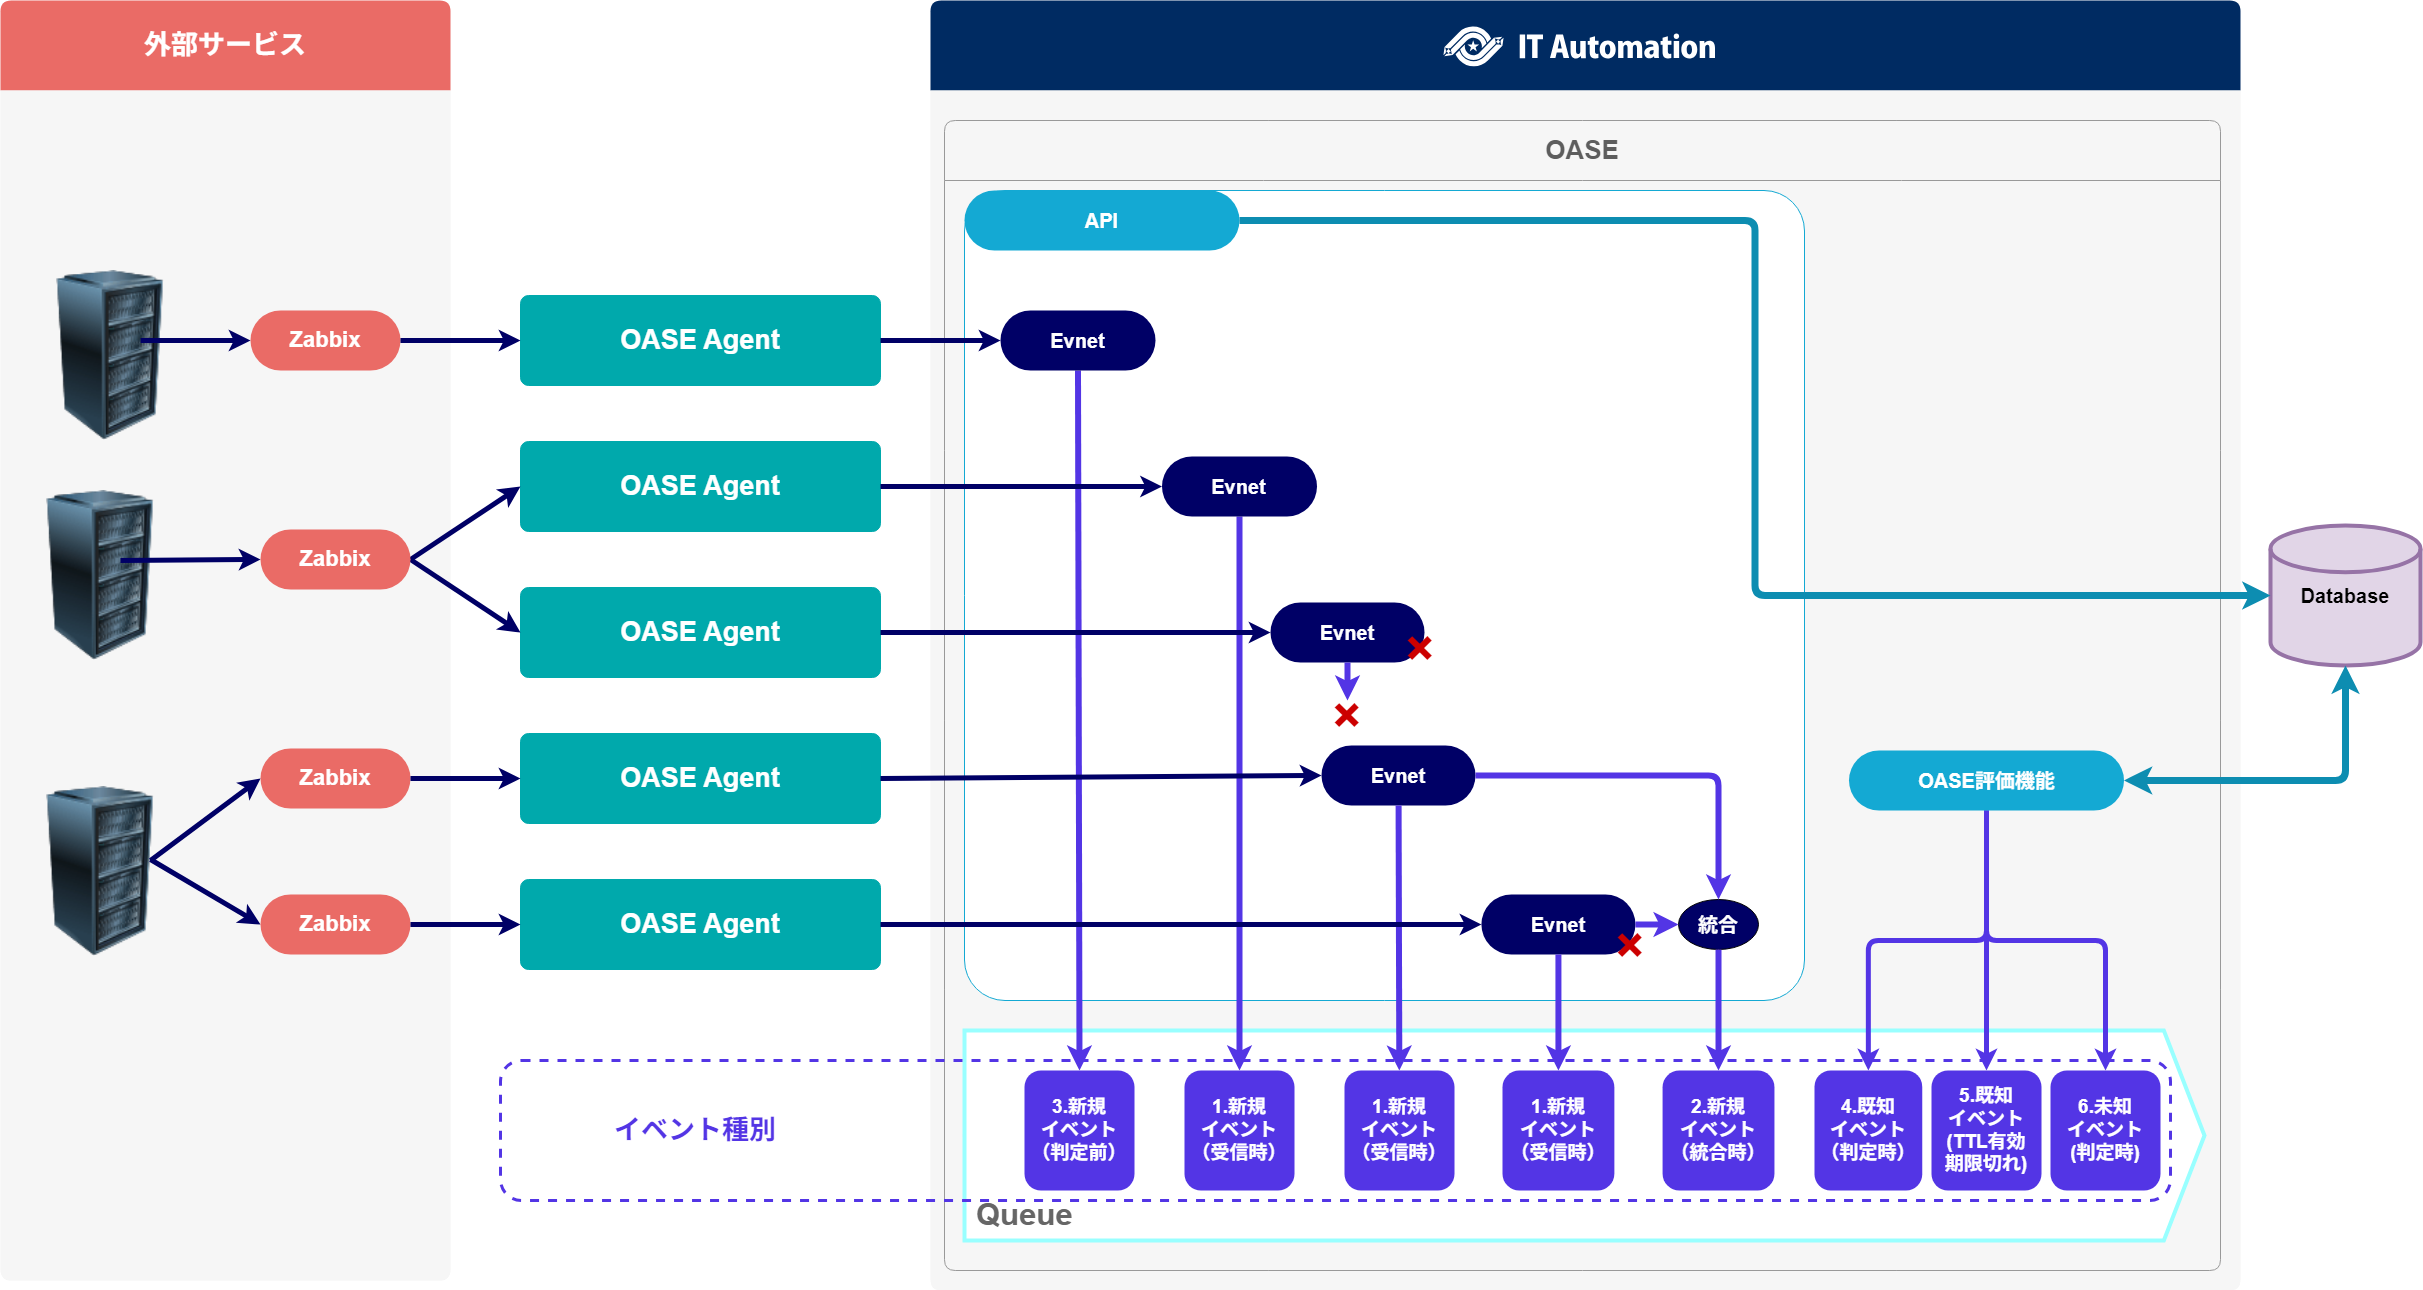
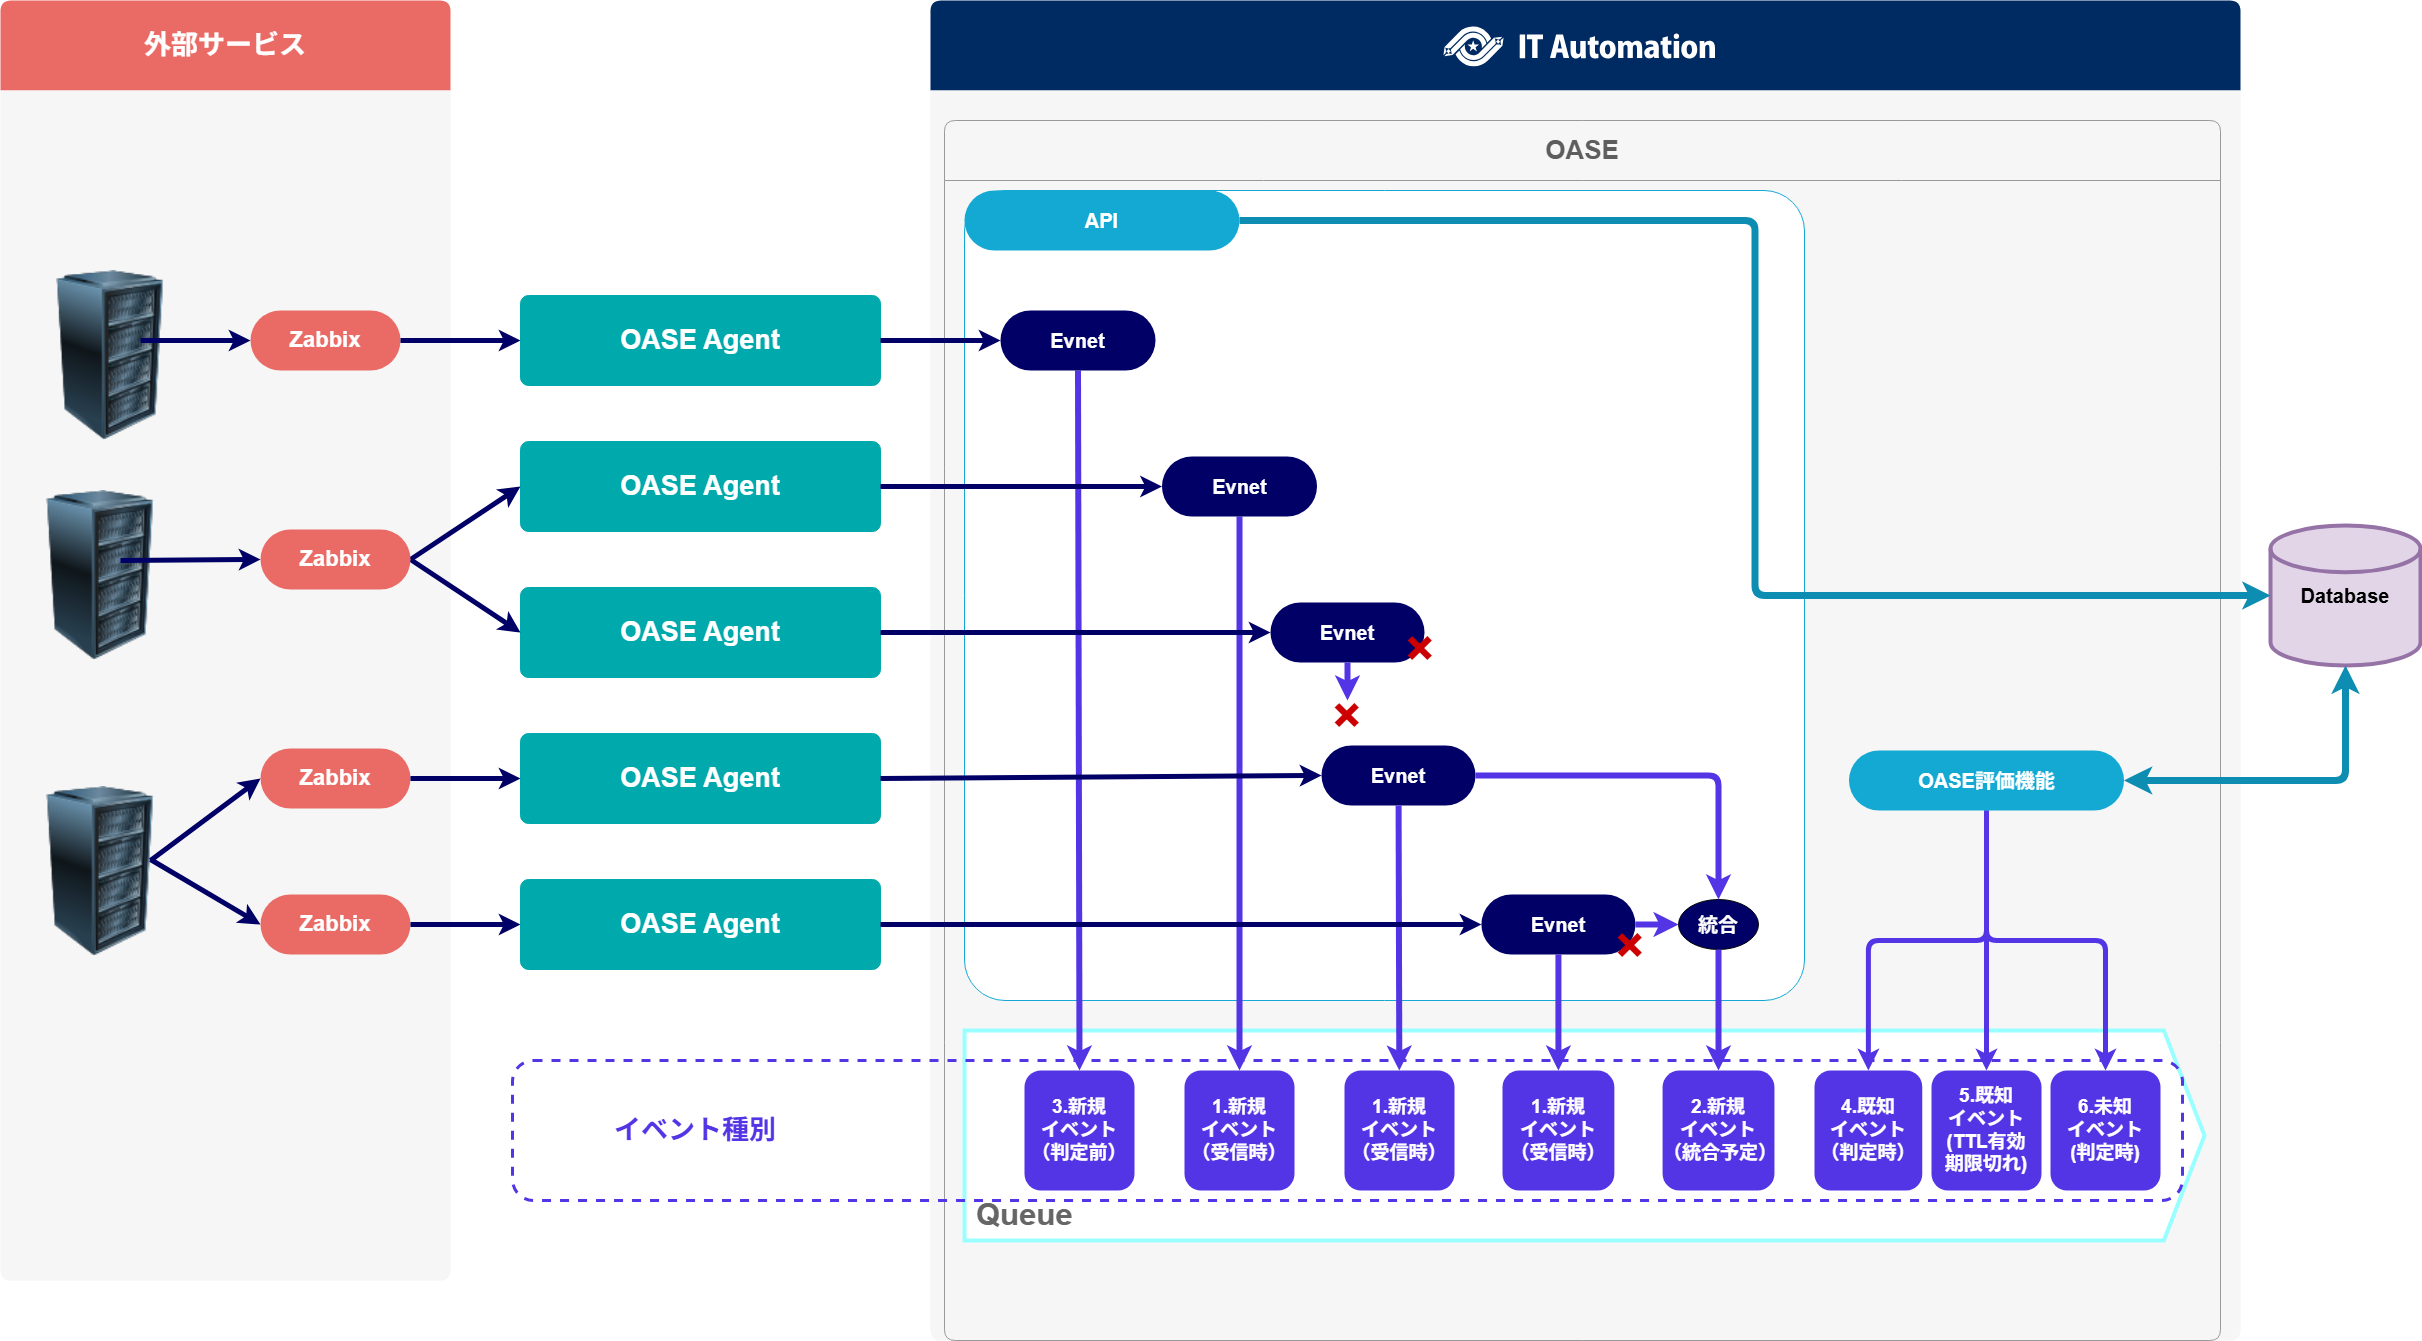
Merge pull request #468 from exastro-suite/dev/Taka-Matsuda/2.8
#2878 Terraform Cloud連携でProject単位の連携機能を追加してほしい、　#2937 OASE重複排除機能の統合通知タイミング変更：先着ベース通知への変更

Pull request: #2878 Terraform Cloud連携でProject単位の連携機能を追加してほしい、　#2937 OASE重複排除機能の統合通知タイミング変更：先着ベース通知への変更
#2878 Terraform Cloud連携でProject単位の連携機能を追加してほしい
https://github.com/exastro-suite/exastro-it-automation/issues/2878

#2937 OASE重複排除機能の統合通知タイミング変更：先着ベース通知への変更
https://github.com/exastro-suite/exastro-it-automation/issues/2937

diff --git a/src/ja/2.8/manuals/organization_management/notification.rst b/src/ja/2.8/manuals/organization_management/notification.rst
@@ -51,7 +51,7 @@
 
    - 新規通知先設定画面（共通部、送信設定）
 
-     .. figure:: /images/ja/manuals/platform/notification/新規通知先設定画面_共通_v2-7.png
+     .. figure:: /images/ja/manuals/platform/notification/新規通知先設定画面_共通_v2-8.png
         :width: 600px
         :align: left
 
@@ -80,7 +80,7 @@
 
    - 通知方法がMailの時の画面
 
-     .. figure:: /images/ja/manuals/platform/notification/新規通知先設定画面_Mail_v2-7.png
+     .. figure:: /images/ja/manuals/platform/notification/新規通知先設定画面_Mail_v2-8.png
         :width: 600px
         :align: left
 
@@ -98,7 +98,7 @@
 
    - 通知方法がTeams(Workflows)の時の画面
 
-     .. figure:: /images/ja/manuals/platform/notification/新規通知先設定画面_TeamsWF_v2-7.png
+     .. figure:: /images/ja/manuals/platform/notification/新規通知先設定画面_TeamsWF_v2-8.png 
         :width: 600px
         :align: left
 
@@ -116,7 +116,7 @@
 
    - 通知方法がWebhookの時の画面
 
-     .. figure:: /images/ja/manuals/platform/notification/新規通知先設定画面_Webhook_v2-7.png
+     .. figure:: /images/ja/manuals/platform/notification/新規通知先設定画面_Webhook_v2-8.png
         :width: 600px
         :align: left
 
@@ -136,7 +136,7 @@
 
    - 通知方法がServiceNow(レコード登録)の時の画面
 
-     .. figure:: /images/ja/manuals/platform/notification/新規通知先設定画面_ServiceNow_v2-7.png
+     .. figure:: /images/ja/manuals/platform/notification/新規通知先設定画面_ServiceNow_v2-8.png
         :width: 600px
         :align: left
 
@@ -195,14 +195,14 @@
 
 #. | :menuselection:`通知先設定一覧` 画面が表示されるので、詳細確認を行いたい通知先設定をクリックします。
 
-   .. figure:: /images/ja/manuals/platform/notification/通知先設定一覧_v2-7.png
+   .. figure:: /images/ja/manuals/platform/notification/通知先設定一覧画面_edit_v2-8.png
       :width: 600px
       :align: left
 
 #. | :menuselection:`通知先設定詳細` 画面が表示されます。
    | 詳細確認の他、編集、削除、通知テストが実施できます。
 
-   .. figure:: /images/ja/manuals/platform/notification/通知先設定詳細画面_v2-7.png
+   .. figure:: /images/ja/manuals/platform/notification/通知先設定詳細画面_v2-8.png
       :width: 600px
       :align: left
 
@@ -237,13 +237,13 @@
 
 #. | :menuselection:`通知先設定一覧` 画面が表示されるので、 :guilabel:`編集` をクリックします。
 
-   .. figure:: /images/ja/manuals/platform/notification/通知先設定一覧画面_edit_v2-7.png
+   .. figure:: /images/ja/manuals/platform/notification/通知先設定一覧画面_edit_v2-8.png
       :width: 600px
       :align: left
 
 #. | :menuselection:`通知先設定編集` 画面が表示されるので、通知先の情報を編集し、 :guilabel:`登録` をクリックします。
 
-   .. figure:: /images/ja/manuals/platform/notification/編集通知先設定画面_Mail_v2-7.png
+   .. figure:: /images/ja/manuals/platform/notification/新規通知先設定画面_Mail_v2-8.png
       :width: 600px
       :align: left
 
@@ -288,7 +288,7 @@
 
 #. | :menuselection:`通知先設定一覧` 画面が表示されるので、 :guilabel:`削除` をクリックします。
 
-   .. figure:: /images/ja/manuals/platform/notification/通知先設定一覧画面_delete_v2-7.png
+   .. figure:: /images/ja/manuals/platform/notification/通知先設定一覧画面_delete_v2-8.png
       :width: 600px
       :align: left
 
@@ -300,3 +300,4 @@
 
    .. tip::
       | 一度削除した通知先設定を復元することは出来ません。
+      

diff --git a/src/ja/2.8/manuals/terraform_driver/terraform_cloud_ep.rst b/src/ja/2.8/manuals/terraform_driver/terraform_cloud_ep.rst
@@ -491,7 +491,7 @@ Workspace管理
 #. | :menuselection:`Terraform Cloud/EP-->Workspace管理` では、Terraformで利用するWorkspaceについてのメンテナンス（閲覧/登録/更新/廃止）を行います。
    | また、ITAに登録したWorkspaceをTerraformへの連携（登録/更新/削除）とリソース削除（terraform destroy）を実行することができます。
 
-   .. figure:: /images/ja/terraform_cloud_ep_driver/operation_method_explanation/workspace_list_menu.png
+   .. figure:: /images/ja/terraform_cloud_ep_driver/operation_method_explanation/workspace_list_menu_v2-8.png
       :width: 800px
       :alt: サブメニュー画面（Workspace管理）
 
@@ -499,7 +499,7 @@ Workspace管理
 
 #. | :guilabel:`＋ 登録` ボタンより、Workspace情報の登録を行います。
 
-   .. figure:: /images/ja/terraform_cloud_ep_driver/operation_method_explanation/workspace_list_register.gif
+   .. figure:: /images/ja/terraform_cloud_ep_driver/operation_method_explanation/workspace_list_register_v2-8.gif
       :width: 800px
       :alt: 登録画面（Workspace管理）
 
@@ -513,7 +513,7 @@ Workspace管理
    | 『Terraformとの接続に失敗しました。インターフェース情報を確認して下さい。』
    | また、選択したOrganizationがTerraformに連携（登録）されていない場合も同様のメッセージが表示されます。
 
-   .. figure:: /images/ja/terraform_cloud_ep_driver/operation_method_explanation/workspace_list_terraform_link.gif
+   .. figure:: /images/ja/terraform_cloud_ep_driver/operation_method_explanation/workspace_list_terraform_link_v2-8.gif
       :width: 800px
       :alt: Terraform連携（Workspace管理）
 
@@ -536,6 +536,13 @@ Workspace管理
       |                                   | _organization_list`」にて\   |           |              |                 |
       |                                   | 登録したOrganization名を\    |           |              |                 |
       |                                   | 選択します。                 |           |              |                 |
+      +-----------------+--------+--------+------------------------------+-----------+--------------+-----------------+
+      | Project名                         | Projectの名前を入力\         | ー        | 手動入力     | 最大長40バイト  |
+      |                                   | します。                     |           |              |                 |
+      |                                   |                              |           |              |                 |
+      |                                   | 空欄の場合\                  |           |              |                 |
+      |                                   | 「Default Project」に\       |           |              |                 |
+      |                                   | 紐づきます。                 |           |              |                 |
       +-----------------+--------+--------+------------------------------+-----------+--------------+-----------------+
       | Workspace名                       | Workspaceの名前を入力\       | ○         | 手動入力     | 最大長90バイト  |
       |                                   | します。                     |           |              |                 |

diff --git a/src/ja/2.8/manuals/oase/oase_common.rst b/src/ja/2.8/manuals/oase/oase_common.rst
@@ -131,9 +131,9 @@
    * - 新規イベント（受信時）
      - | イベントが受信された時点で通知されます。
        | ただし、重複排除設定がある場合、同一と判断されたイベントは通知されません。
-   * - 新規イベント（統合時）
-     - | 受信したイベントが統合された際に通知されます。
-       | 複数のイベントが1つにまとめられた場合に発生します。
+   * - 新規イベント（統合予定）
+     - | 重複排除設定のある冗長グループにおいて、最初のイベント受信時に統合通知が送信されます。
+       | 後続のイベントは重複排除により統合されますが、新たな通知は送信しません。
    * - 新規イベント（判定前）
      - | ルール判定対象となったイベントについて通知されます。
    * - 既知イベント（判定時）